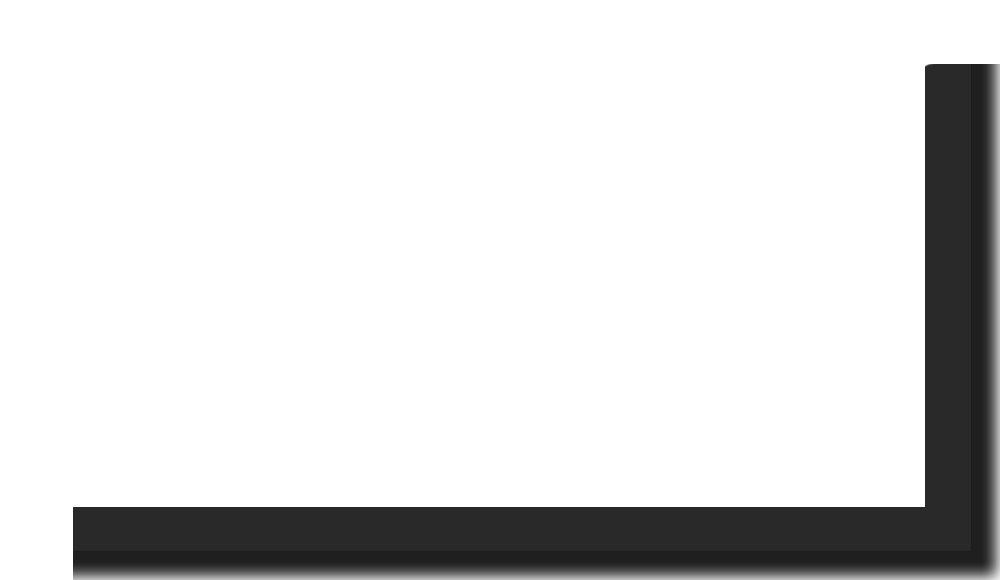
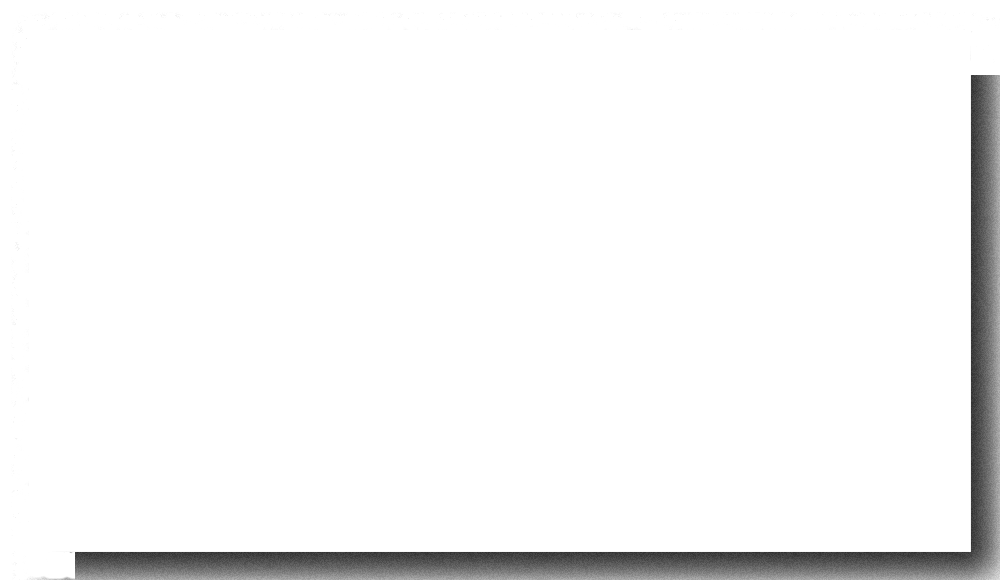
trying Fade + Movement of images
Fade didn't work out, and images are goodish

Changed region(s): [[0.031, 0.0931, 1.0, 1.0]]

diff --git a/RainDrops/main.html b/RainDrops/main.html
@@ -113,7 +113,7 @@
 			
 			// $('#ShadowCentreLeft').css('z-index', 1);  
 			// $('#ShadowCentreMiddle').css('z-index', 1);  
-			//$('#ShadowCentreRight').css('z-index', 1); 
+			// $('#ShadowCentreRight').css('z-index', 1); 
 			
 			//Back z-layer Setup
 			$('#backLeft').css('z-index', 1); 
@@ -147,6 +147,9 @@
 				setImageVisible('leftTopMiddle',true);
 				rainDropTransition('#leftTopMiddle',yTargetPos2,ReturnArrayPosition(0),totalDuration);//Regular outside transition
 
+				//shadow stuff 
+				//document.getElementById("ShadowRight").className = "RightShadowPos";//change to transition class 
+				//setImageVisible('ShadowRight',false);// turn off image 
 				setImageVisible('ShadowLeft',true);
 				rainDropTransition('#ShadowLeft',yTargetPos2,ReturnArrayPosition(0),totalDuration); 
 			}
@@ -157,7 +160,10 @@
 				
 				setImageVisible('middleTopMiddle',true);
 				rainDropTransition('#middleTopMiddle',yTargetPos,ReturnArrayPosition(1),totalDuration);//Regular outside transition
-			
+				
+				//shadow stuff 
+				//document.getElementById("ShadowLeft").className = "LeftShadowPos";//change to transition class 
+				//setImageVisible('ShadowLeft',false);// turn off image 
 				setImageVisible('ShadowMid',true);
 				rainDropTransition('#ShadowMid',yTargetPos,ReturnArrayPosition(1),totalDuration); 
 			}
@@ -169,6 +175,9 @@
 				setImageVisible('rightTopMiddle',true);
 				rainDropTransition('#rightTopMiddle',0,ReturnArrayPosition(2),totalDuration);//Regular outside transition
 				
+				// shadow management 
+				//document.getElementById("ShadowMid").className = "MiddleShadowPos";//change to regular class 
+				//setImageVisible('ShadowMid',false);// turn off image 
 				setImageVisible('ShadowRight',true);
 				rainDropTransition('#ShadowRight',10,ReturnArrayPosition(2),totalDuration); 
 			}
@@ -228,8 +237,9 @@
 				SetValuesMin('#leftTopMiddle',-500,ReturnArrayPosition(0));//set the front value  300 0.35
 				// shadow stuff 
 				setImageVisible('ShadowRight',false);	
+				//document.getElementById("ShadowRight").className = "RightShadowPosTrans";//change to transition class 
 				SetValuesMin('#ShadowLeft',-500,ReturnArrayPosition(0));//set front shadow values
-				//setImageVisible('ShadowLeft',true);
+				
 				//Centre
 				SetValuesNT('centreLeft',420,ReturnArrayPosition(3));// set the Centre picture value 
 				//SetValuesNT('ShadowCentreLeft',400,PrePos1);
@@ -238,7 +248,7 @@
 				SetValuesNT('backLeft',420,ReturnArrayPosition(0));// set the Centre picture value 
 				//SetValuesNT('ShadowBackLeft',400,FarBackPos1); 
 				
-				// set z index of the shadows
+				// set z index of the shadows -1
 				$('#ShadowLeft').css('z-index', 8);  
 				$('#ShadowMid').css('z-index', 6);  
 				$('#ShadowRight').css('z-index', 7);
@@ -271,6 +281,7 @@
 				SetValuesMin('#middleTopMiddle',-600,ReturnArrayPosition(1));//set the front value 
 				// shadow stuff 
 				setImageVisible('ShadowLeft',false);	
+				//document.getElementById("ShadowLeft").className = "LeftShadowPosTrans";//change to transition class 
 				SetValuesMin('#ShadowMid',-600,ReturnArrayPosition(1));//set front shadow values  
 				//setImageVisible('ShadowMid',true);
 						
@@ -281,7 +292,7 @@
 				SetValuesNT('backMiddle',390,ReturnArrayPosition(1));// set the Centre picture value 
 				// SetValuesNT('ShadowBackMiddle',370,FarBackPos2); 
 				
-				// set z index of the shadows
+				// set z index of the shadows -1
 				$('#ShadowLeft').css('z-index', 7);  
 				$('#ShadowMid').css('z-index', 8);  
 				$('#ShadowRight').css('z-index', 6);  
@@ -313,7 +324,8 @@
 					
 				SetValuesMin('#rightTopMiddle',-700,ReturnArrayPosition(2));//set the front value 450 0.3
 				// shadow stuff 
-				setImageVisible('ShadowMid',false);	
+				setImageVisible('ShadowMid',false);
+				//document.getElementById("ShadowMid").className = "MiddleShadowPosTrans";//change to transition class 				
 				SetValuesX('#ShadowRight',70,-700,ReturnArrayPosition(2));//set front shadow values 0.2 -->
 				//setImageVisible('ShadowRight',true);
 
@@ -324,7 +336,7 @@
 				SetValuesNT('backRight',390,ReturnArrayPosition(2));// set the Centre picture value 
 				//SetValuesNT('ShadowBackRight',370,FarBackPos2);
 				
-				// set z index of the shadows
+				// set z index of the shadows -1 
 				$('#ShadowLeft').css('z-index', 6);  
 				$('#ShadowMid').css('z-index', 7); 
 				$('#ShadowRight').css('z-index', 8); 

diff --git a/RainDrops/style.css b/RainDrops/style.css
@@ -138,15 +138,23 @@
   	width: 640px;
 	height: 360px;
 	z-index: 3;
-	/* -webkit-transition-duration: 1s; */
-    /* -webkit-transition-timing-function: ease; */
 	-webkit-filter: drop-shadow(5px 5px 5px #222);
 	Opacity :1;
 	-webkit-transform: translateZ(0);
-	/* transition-property:-webkit-filter; */
 }
 
 .LeftShadowPos
+{
+	position:absolute;
+	left:28px;
+	top:246px;
+  	width: 680px;
+	height: 400px;
+	z-index: 3;
+	Opacity :0.8;
+}
+
+.LeftShadowPosTrans
 {
 	position:absolute;
 	left:28px;
@@ -154,6 +162,10 @@
   	width: 680px;
 	height: 400px;
 	z-index: 3;
+	Opacity :1;
+	-webkit-transition-duration: 1s;
+	-webkit-transition-timing-function: ease-out;
+	Opacity :0;
 }
 
 
@@ -267,11 +279,26 @@
 .MiddleShadowPos
 {
 	position:absolute;
+	left:566px;
+	top:256px;
+  	width: 680px;
+	height: 400px;
+	z-index:2;
+	Opacity :0.8;
+}
+
+.MiddleShadowPosTrans
+{
+	position:absolute;
 	left:568px;
 	top:256px;
   	width: 680px;
 	height: 400px;
 	z-index:2;
+	Opacity :1;
+	-webkit-transition-duration: 1s;
+	-webkit-transition-timing-function: ease-out;
+	Opacity :0;
 }
 
 .MiddleCentre {
@@ -362,10 +389,25 @@
 {
 	position:absolute;
 	left:997px;
+	top:257px;
+  	width: 680px;
+	height: 400px;
+	z-index:1;
+	Opacity :0.8;
+}
+
+.RightShadowPosTrans
+{
+	position:absolute;
+	left:997px;
 	top:260px;
   	width: 680px;
 	height: 400px;
 	z-index:1;
+	Opacity :1;
+	-webkit-transition-duration: 1s;
+	-webkit-transition-timing-function: ease-out;
+	Opacity :0;
 }
 
 .RightCentre {

diff --git a/RainDrops/CacheImages.js b/RainDrops/CacheImages.js
@@ -5,8 +5,8 @@ var defaultArray = [];// image array copy for downloading
 var imgArray=[] ;
 
 
-var imgPath  = "http://192.168.2.239/PhotoBooth/";
-var StaticImgPath  = "http://192.168.2.239/PhotoBoothStatic/";// Insert simulated static image path here
+var imgPath  = "http://192.168.2.209/PhotoBooth/";
+var StaticImgPath  = "http://192.168.2.209/PhotoBoothStatic/";// Insert simulated static image path here
 // Static Image Gallery PhotoBoothStatic/
 var StaicImgArray = [StaticImgPath+"00Static.jpg"];
 
